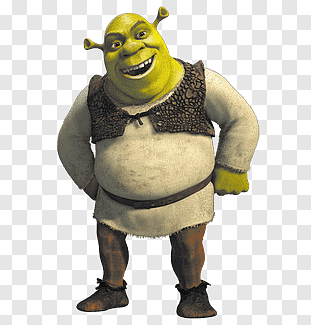
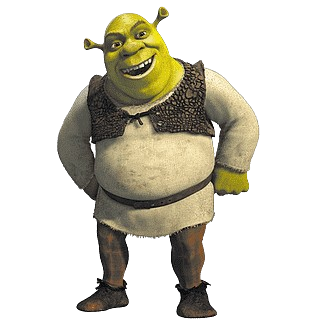
animation

diff --git a/style.css b/style.css
@@ -512,7 +512,7 @@ footer{
 }
 */
 
-/* use on 35Transform translate, scale, rotate, skew */
+/* use on 35Transform translate, scale, rotate, skew 
 
 body{
   margin: 0;
@@ -538,4 +538,63 @@ body{
 img{
   transform: translateX(100%) rotateZ(180deg) scaleX(2);
 }
+*/
 
+/* use on 36Animation */
+body{
+  background-color: hsl(0, 0%, 12%);
+ /* background-color: white; */
+}
+#box{
+  width: 250px;
+  height: 250px;
+  background-color: hsl(0, 100%, 62%);
+  font-size: 13em;
+  text-align: center;
+  animation-name: slideLeft;
+  animation-duration: 2s;
+  animation-iteration-count: 2;
+  animation-direction: normal;
+  animation-play-state: running;
+  animation-timing-function: ease-in-out;
+}
+img{
+  animation-name: slideLeft;
+  animation-duration: 2s;
+  animation-iteration-count: 2;
+  animation-direction: normal;
+  animation-play-state: running;
+  animation-timing-function: ease-in-out;
+}
+@keyframes slideLeft{
+  from{transform: translateX(200%);}
+}
+@keyframes slideRight{
+  to{transform: translateX(200%);}
+}
+@keyframes slideUp{
+  from{transform: translateY(200%);}
+}
+@keyframes slideDown{
+  to{transform: translateY(200%);}
+}
+@keyframes rotate{
+  50%{transform: rotateZ(360deg);}
+}
+@keyframes grow{
+  50%{transform: scale(2, 2);}
+}
+@keyframes shrink{
+  50%{transform: scale(0.5, 0.5);}
+}
+@keyframes colorChange{
+  0%{background-color: hsl(0, 100%, 62%);}
+  20%{background-color: hsl(35, 100%, 62%);}
+  40%{background-color: hsl(63, 100%, 62%);}
+  60%{background-color: hsl(103, 100%, 62%);}
+  80%{background-color: hsl(201, 100%, 62%);}
+  100%{background-color: hsl(268, 100%, 62%);}
+}
+@keyframes grow{
+  50%{box-shadow: 0px 0px 50px hsl(60, 100%, 62%);}
+}

diff --git a/index36Animattion.html b/index36Animattion.html
@@ -1,0 +1,14 @@
+<!DOCTYPE html>
+<html lang="en">
+  <head>
+    <meta charset="UTF-8" />
+    <meta name="viewport" content="width=device-width, initial-scale=1.0" />
+    <title>Burn Lai</title>
+    <link rel="stylesheet" href="style.css" />
+  </head>
+  <body>
+  </body>
+  <!--<div id="box">Hi</div>-->
+  <img src="image/shrek.png" alt="">
+  </body>
+</html>
